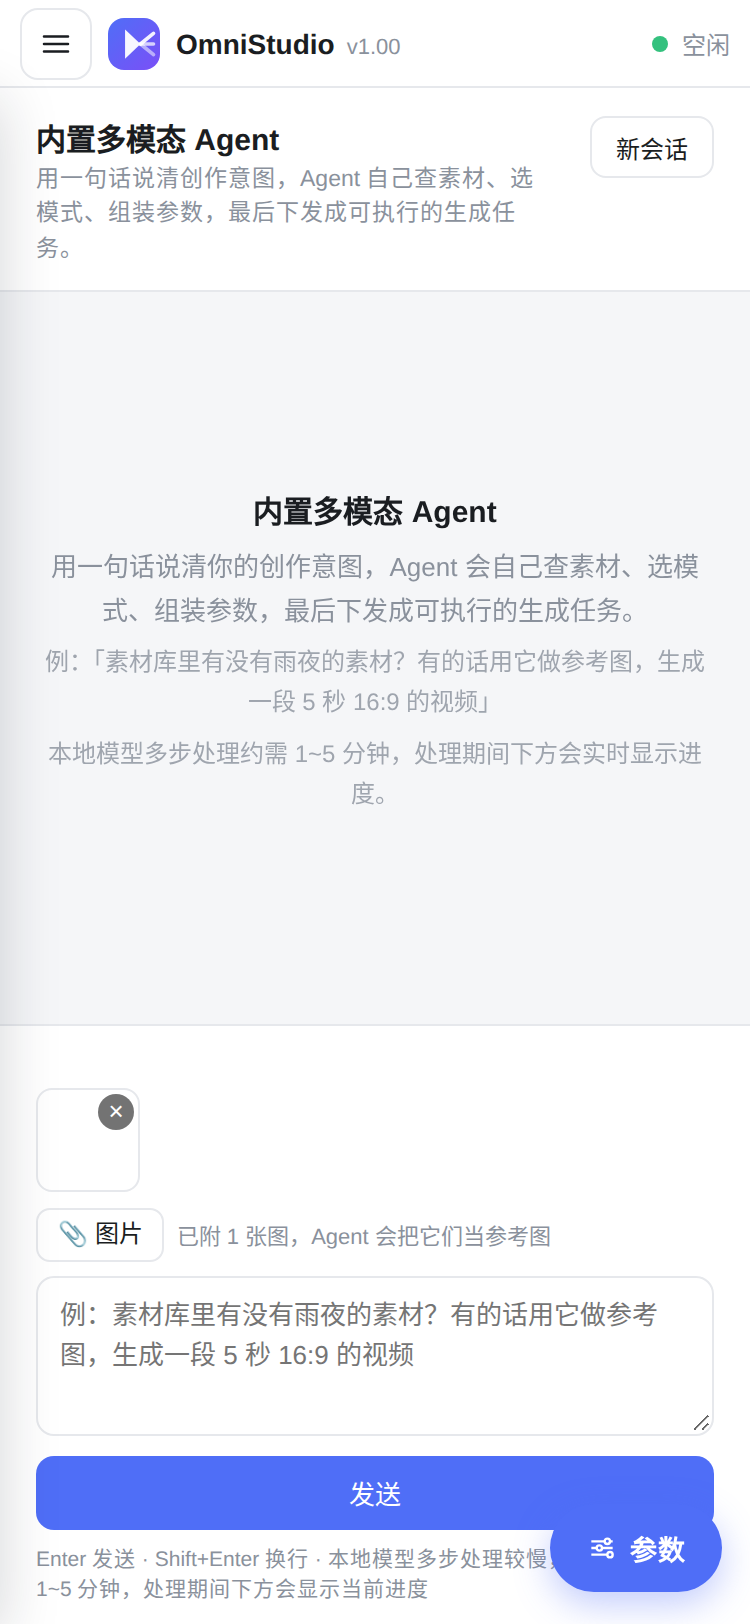
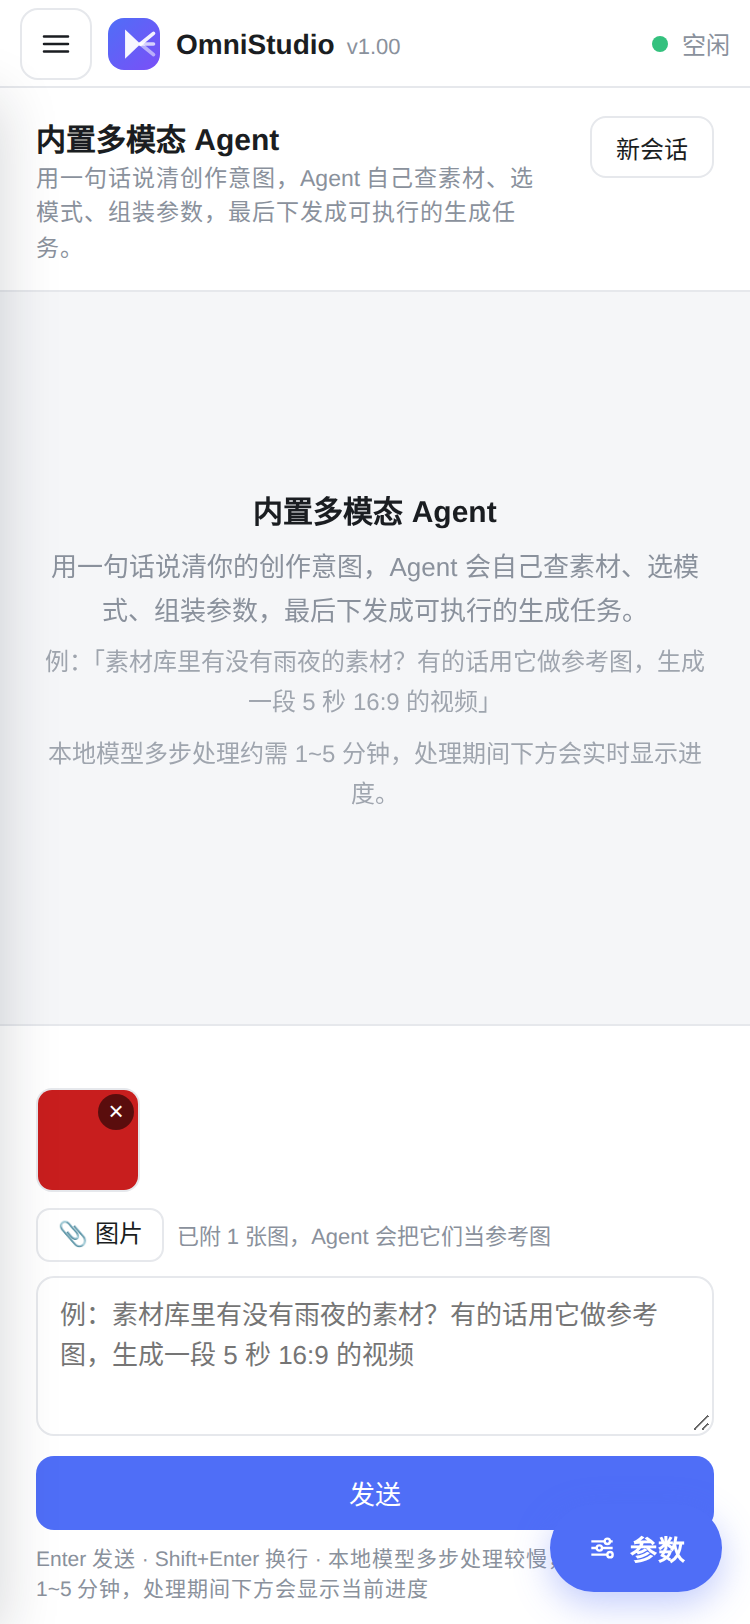
chore(verify): 验收脚本等缩略图**真的加载完**再截图 + 加像素级断言
【实测踩到的坑 —— 假通过】
线上窄屏（375/390）截图里缩略图是**空白方框**：
  红色像素只有 13 个（还都在页头，不是缩略图）
本地同款截图是 2214 个 -> 说明是**时序**问题不是功能问题：
窄屏下缩略图只有 52px，<img> 还没解码完就截图了。

而原有断言「有 <img> 且 src 指向 /api/assets/...」**照样全绿** ——
这正是「假阳性断言」的典型：DOM 断言过，但界面是坏的。

【修法】
1) upload() 里额外等 img.complete && naturalWidth>0（只等 attachBusy=false
   不够 —— 那是「请求返回了」，不是「图片渲染好了」）
2) 新增**像素级**断言 _thumb_has_pixels()：数截图下部 1/3 的红色像素，
   阈值 300（页头小图标只有 13 个，缩略图有 2200+，差两个数量级不会混淆）

【实测】
本地 18/18、线上 18/18，console 0 错误
线上缩略图区红色像素：375=2201、390=2201、1280=3319（修复前 375/390 只有 13）

Changed region(s): [[0.0307, 0.6466, 0.184, 0.7389]]

diff --git a/scripts/verify_live_media_browser.py b/scripts/verify_live_media_browser.py
@@ -233,6 +233,43 @@ def delete_asset(asset_id: str) -> int:
         return 0
 
 
+def _thumb_has_pixels(screenshot: str | None, min_red: int = 300) -> bool:
+    """
+    数截图里**缩略图区域**的红色像素，判断缩略图**真的渲染出了内容**。
+
+    【为什么需要这个断言】
+    实测踩到过：窄屏（375/390）下缩略图只有 52px，截图时 <img> 还没解码完
+    -> 拍到的是**空白方框**。而「有 <img> 且 src 指向 /api/assets/...」
+    这类 DOM 断言**照样全绿** —— 假通过。
+
+    所以必须做**像素级**核对：测试图是纯红色 RGB(200,30,30)，
+    缩略图区域必须出现足够多的红色像素。
+
+    定位缩略图区域：它是页面下部、缩略图条里的第一个 .ag-attach-thumb。
+    这里不做精确裁剪（不同宽度缩略图大小不同），而是统计
+    **截图下部 1/3** 里的红色像素 —— 页头那个小图标只有 13 个红色像素，
+    与缩略图的 2000+ 差两个数量级，不会混淆。
+    """
+    if not screenshot:
+        return False
+    path = Path(screenshot)
+    if not path.is_file():
+        return False
+    try:
+        from PIL import Image
+        image = Image.open(path).convert("RGB")
+    except Exception:  # noqa: BLE001
+        return False
+    width, height = image.size
+    red = 0
+    for y in range(height * 2 // 3, height, 2):
+        for x in range(0, width, 2):
+            r, g, b = image.getpixel((x, y))
+            if r > 140 and g < 90 and b < 90:
+                red += 1
+    return red >= min_red
+
+
 def main():
     from playwright.sync_api import sync_playwright
     SHOTS.mkdir(parents=True, exist_ok=True)
@@ -284,7 +321,23 @@ def main():
                     page.wait_for_function(
                         """() => !window.AgentUI.state.attachBusy""",
                         timeout=180000)
-                    page.wait_for_timeout(350)
+                    # 【关键】等缩略图**真的加载完**再截图。
+                    #
+                    # 【实测踩到的坑】窄屏（375/390）下缩略图只有 52px，
+                    # 截图时 <img> 还没解码完 -> 拍到的是**空白方框**。
+                    # 像素级核对：本地截图红色像素 2214，线上窄屏只有 13
+                    # （13 个都在页头，不是缩略图）。
+                    #
+                    # 只等 attachBusy=false 不够 —— 那是「上传请求返回了」，
+                    # 不是「图片渲染好了」。必须等 img.complete && naturalWidth>0。
+                    page.wait_for_function(
+                        """() => {
+                          const imgs = [...document.querySelectorAll(
+                            '.ag-attach-thumb img')];
+                          if (!imgs.length) return true;
+                          return imgs.every(i => i.complete && i.naturalWidth > 0);
+                        }""", timeout=30000)
+                    page.wait_for_timeout(250)
 
                 reset()
                 shot = SHOTS / f"live-media-{tag}-01-upload-entry.png"
@@ -378,6 +431,11 @@ def main():
                 "预处理写入了描述": len(lib.get("analysis_text") or "") > 20,
                 "预处理写入了标签": len(lib.get("tags") or []) > 0,
                 "前端拿到标签": len(pr["attachments"][0]["tags"]) > 0,
+                # 【像素级】缩略图**真的渲染出了图片内容**。
+                # 只断言「有 <img> 且 src 正确」不够 —— 实测踩到过：
+                # 窄屏下 <img> 还没解码完就截图，断言全绿但拍到的是空白方框
+                # （红色像素只有 13 个，全在页头）。所以数**图片区域的红色像素**。
+                "缩略图真的渲染出内容": _thumb_has_pixels(r.get("screenshot")),
                 "窄屏无横向溢出": overflow_free(pr),
             }
         elif case == "multi":
